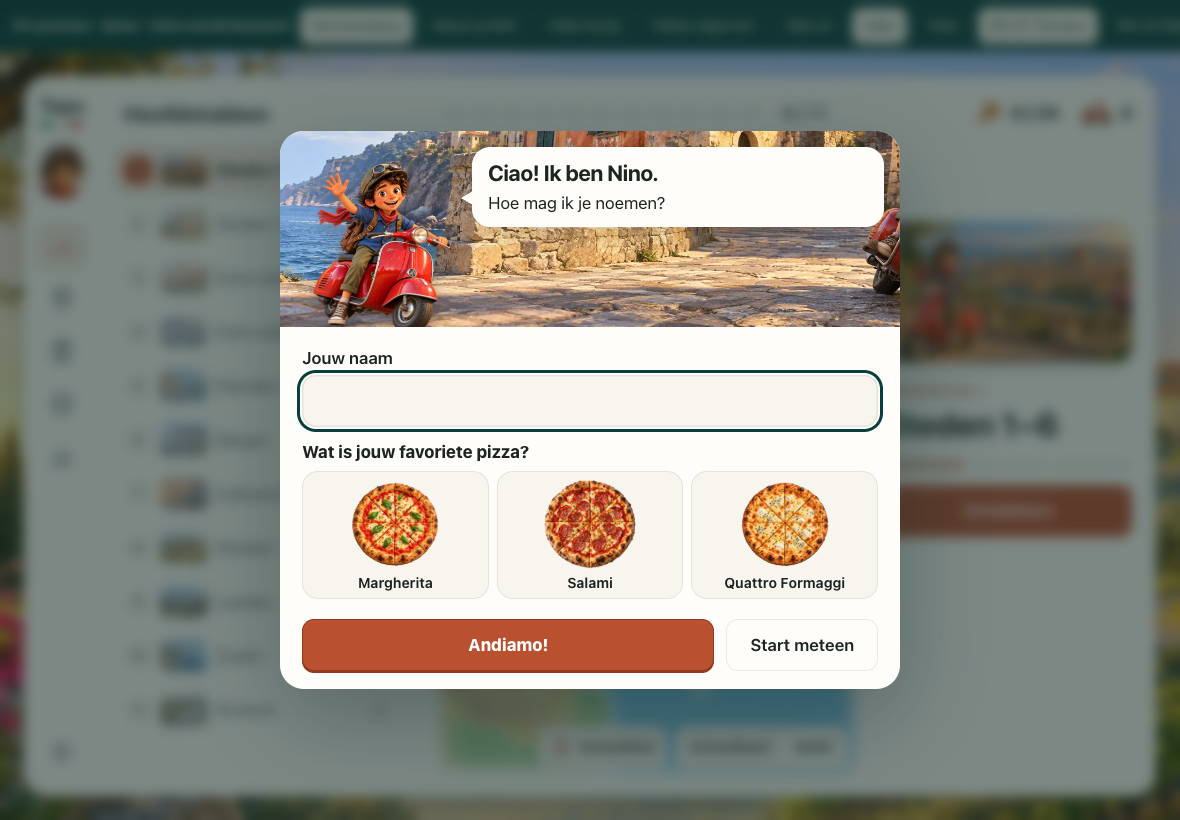
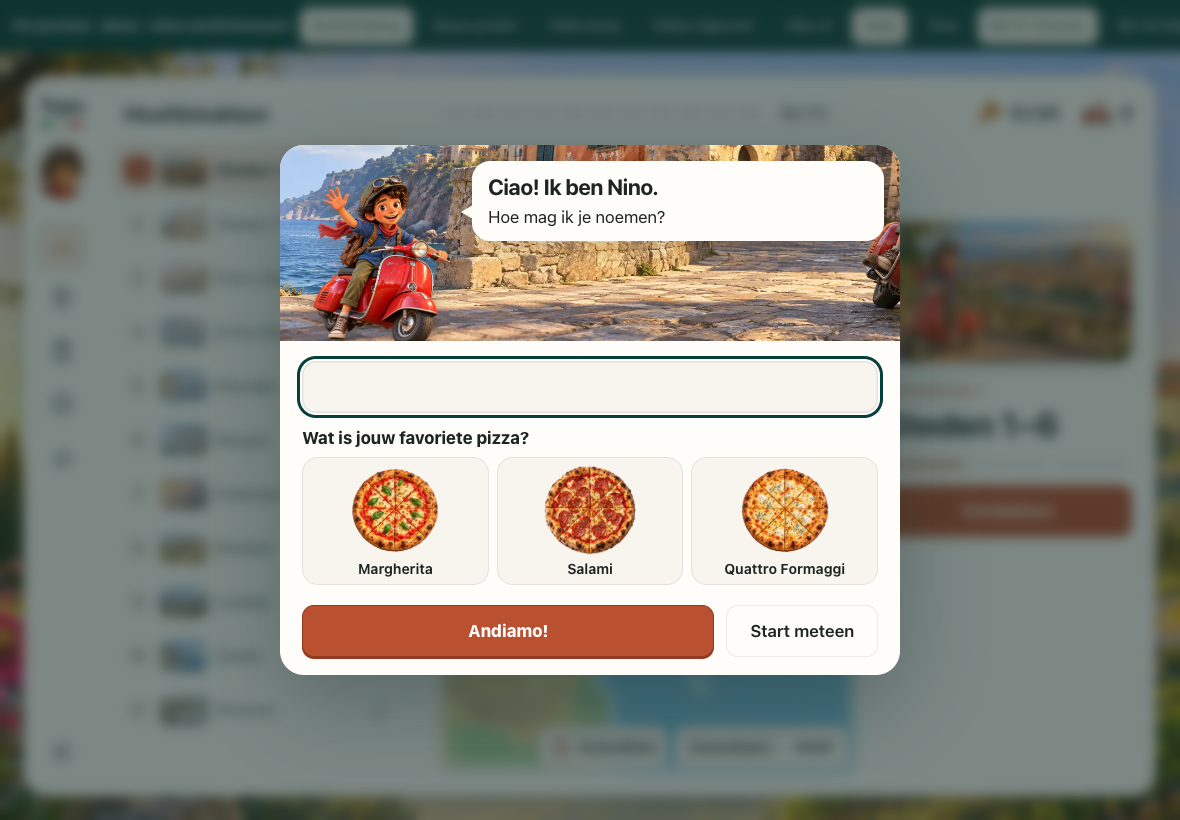
V3.0 review-fix 3: label 'Jouw naam' visueel weg, toegankelijke naam blijft
De labeltekst staat visueel verborgen in het V2-label; Nino's vraag draagt
het veld. QA: label niet zichtbaar, tekstvak vindbaar als 'Jouw naam'.
Fix 4 (zoombalk les) vervalt per eigenaarsbesluit 10 november.

Changed region(s): [[0.2136, 0.1524, 0.7627, 0.4573], [0.2136, 0.4878, 0.7627, 0.8537], [0.6407, 0.7622, 0.7322, 0.7927]]

diff --git a/scripts/v3/kennismaking.js b/scripts/v3/kennismaking.js
@@ -13,6 +13,9 @@
   // Help lines of the V2 form (V3 principle: no help texts).
   for(const n of d.querySelectorAll('.profileName>span,#profileNameHelp'))n.hidden=true;
   const input=d.querySelector('[name=name]');input?.removeAttribute('aria-describedby');
+  // The label "Jouw naam" is not shown (Nino's question carries it) but stays the field's accessible name.
+  const label=d.querySelector('label.profileName');
+  if(label)for(const n of [...label.childNodes])if(n.nodeType===3&&n.textContent.trim()){const sr=document.createElement('span');sr.className='v3SrOnly';sr.textContent=n.textContent.trim();n.replaceWith(sr);}
  }
  function offer(d){if(d.dataset.v3)return;d.dataset.v3='aanbod';d.classList.add('v3','v3Aanbod');for(const p of d.querySelectorAll(':scope>p'))p.hidden=true;d.querySelectorAll('.introActions .button').forEach(b=>b.classList.add('v3Btn'));d.querySelector('.introActions .primary')?.classList.add('primary');}
  // After the kennismaking, on Reis: chapter 1 is the selected chapter (a lesson that the offer started stays).

diff --git a/scripts/v3/shell.css b/scripts/v3/shell.css
@@ -191,6 +191,7 @@ dialog.v3Welkom::backdrop{background:rgba(18,40,38,.55);backdrop-filter:blur(6px
 .v3Welkom .profileBubble h2{font:var(--v3-title);margin:0 0 4px}
 .v3Welkom .profileBubble p{margin:0}
 .v3Welkom .profileName{font:var(--v3-headline);margin-top:var(--v3-s5)}
+.v3Welkom .v3SrOnly{position:absolute;width:1px;height:1px;overflow:hidden;clip:rect(0 0 0 0);clip-path:inset(50%);white-space:nowrap}
 .v3Welkom .profileName input{min-height:52px;border:0;border-radius:14px;background:var(--v3-surface2);box-shadow:inset 0 0 0 1.5px var(--v3-line);font:var(--v3-body)}
 .v3Welkom legend{font:var(--v3-headline)}
 .v3Welkom .profileChoice{border-radius:16px;background:var(--v3-surface2);box-shadow:inset 0 0 0 1px var(--v3-line)}

diff --git a/scripts/qa-v3-kennismaking.py b/scripts/qa-v3-kennismaking.py
@@ -3,7 +3,7 @@
 
 Per viewport (desktop, iPad landscape, iPad portrait, phone, 320 px), on #welkom (first visit: no profile, no intro):
   * the V2 first-run dialog opens as the V3 scene: welcome pose, name, three pizzas, Andiamo! and Start meteen;
-    no help lines; focus inside; the scene fits the screen without horizontal scroll;
+    no help lines; the label "Jouw naam" is not visible but is the field's accessible name; focus inside; the scene fits the screen without horizontal scroll;
   * Andiamo! (keyboard: type, choose with arrow keys, Enter): profile schema 1 exactly {schema,name,coverColor,
     favoritePizza} under topo-nino-profile-v1, intro "done"; then Reis with chapter 1 selected;
   * Start meteen: profile schema 1 (empty name, no pizza), intro "skipped"; Reis with chapter 1; the first lesson
@@ -28,6 +28,8 @@ DIALOG_JS = '''() => { const d = document.querySelector('dialog.ninoProfile[open
     name: vis(d.querySelector('[name=name]')), pizzas: [...d.querySelectorAll('[name=favoritePizza]')].map(i => i.value),
     buttons: [...d.querySelectorAll('button')].filter(vis).map(b => b.textContent.trim()),
     help: ['(mag leeg blijven)', 'Maximaal 24 tekens.'].filter(t => [...d.querySelectorAll('*')].some(n => vis(n) && n.children.length === 0 && n.textContent.trim() === t)),
+    nameLabelVisible: [...d.querySelectorAll('label.profileName *, label.profileName')].some(n => vis(n) && [...n.childNodes].some(c => c.nodeType === 3 && c.textContent.trim() === 'Jouw naam')),
+    nameAccessible: (() => { const i = d.querySelector('[name=name]'); return i?.labels?.[0] ? [...i.labels[0].childNodes].filter(c => c.nodeType === 3 || (c.nodeType === 1 && !c.hidden && c.tagName !== 'INPUT')).map(c => c.textContent).join('').trim() : null; })(),
     focusInside: d.contains(document.activeElement), fits: r.left >= 0 && r.right <= innerWidth && r.top >= 0 && r.bottom <= innerHeight + 1,
     hOverflow: document.documentElement.scrollWidth > innerWidth + 1}; }'''
 AFTER_JS = '''() => { const s = window.TOPO_V3_PREVIEW.storage;
@@ -55,6 +57,10 @@ async def main():
                 if not d['open'] or not d['v3'] or not d['firstRun'] or not d['pose'] or not d['name']: fail(f'dialog {d}')
                 elif d['pizzas'] != ['margherita', 'salami', 'quattro_formaggi'] or d['buttons'] != ['Start meteen', 'Andiamo!'] and sorted(d['buttons']) != ['Andiamo!', 'Start meteen']: fail(f'content {d["pizzas"]} {d["buttons"]}')
                 if d.get('help'): fail(f'help texts {d["help"]}')
+                if d.get('open') and (d['nameLabelVisible'] or d['nameAccessible'] != 'Jouw naam'): fail(f'name label visible={d["nameLabelVisible"]} accessible={d["nameAccessible"]!r}')
+                if flow == 'andiamo':
+                    tb = await pg.get_by_role('textbox', name='Jouw naam', exact=True).count(); run['nameRole'] = tb
+                    if tb != 1: fail(f'textbox "Jouw naam" by accessible name: {tb}')
                 if d.get('open') and (not d['focusInside'] or not d['fits'] or d['hOverflow']): fail(f'focus={d["focusInside"]} fits={d["fits"]} overflow={d["hOverflow"]}')
                 if flow == 'andiamo':
                     await pg.screenshot(path=str(OUT / f'kennismaking-{name}.png'))

diff --git a/docs/PROJECT_STATE.md b/docs/PROJECT_STATE.md
@@ -4,7 +4,7 @@ Branch `codex/topo-v3` vanaf de V2-afsluiting `f53dc0b` (voorouder `v2.0.2` = `8
 
 **V3.0 deel 5 — Kennismaking** (9 november): de V2-eerste-keerdialoog is één V3-scène met welkomstpose, naam, favoriete pizza, Andiamo! en Start meteen; de hulpteksten zijn weg. Daarna opent Reis met hoofdstuk 1. Profielschema 1 en de V2-regel voor het eenmalig opnieuw aanbieden blijven gelijk. Preview-demo `#welkom`. [Bewijs](qa/v3-kennismaking/README.md).
 
-**V3.0 review-fixes** (10 november, één commit per punt): (1) toetsfouten zonder "jij:", bij Aanwijzen alleen de plek. [Bewijs](qa/v3-toets/README.md). (2) Telefoon en 320 px: elk scherm buiten lessen krijgt onderaan ruimte voor de tabbalk en de safe area, ook bij toetsenbordfocus. [Bewijs](qa/v3-shell/README.md).
+**V3.0 review-fixes** (10 november, één commit per punt): (1) toetsfouten zonder "jij:", bij Aanwijzen alleen de plek. [Bewijs](qa/v3-toets/README.md). (2) Telefoon en 320 px: elk scherm buiten lessen krijgt onderaan ruimte voor de tabbalk en de safe area, ook bij toetsenbordfocus. [Bewijs](qa/v3-shell/README.md). (3) Kennismaking: label "Jouw naam" visueel weg, toegankelijke naam blijft. [Bewijs](qa/v3-kennismaking/README.md). Fix 4 (zoombalk in de les) vervalt volgens het eigenaarsbesluit van 10 november (herontwerp van de les).
 
 **V3.0 compleet op `codex/topo-v3`** (5 commits, één per onderdeel). Klaar voor de Hermes-hertest op #76. Geen merge of deployment.
 

diff --git a/docs/DECISIONS.md b/docs/DECISIONS.md
@@ -457,3 +457,7 @@ Review-fix 2. Op de telefoon (≤ 767 px) eindigt elk V3-scherm buiten lessen bo
 - **Toetsenbord:** `scroll-padding-bottom` gebruikt dezelfde waarde. Een knop die focus krijgt en achter de balk valt, scrolt vrij.
 - **Lessen:** die houden de bestaande V2-padding. De lopende toets is een les.
 - **Drempel in de QA:** het einde van de inhoud ligt minstens 8 px boven de balk.
+
+## 2026-11-10 — V3.0 review-fix: label "Jouw naam" alleen voor schermlezers
+
+Review-fix 3 (ook in `DESIGN_AUDIT_V3_0.md`: "het dubbele label weg"). In de kennismaking is "Jouw naam" niet meer zichtbaar, omdat Nino's vraag "Hoe mag ik je noemen?" het veld al draagt. Het label blijft de toegankelijke naam van het veld: de tekst staat visueel verborgen in het V2-label. Het V2-formulier en profielschema 1 blijven ongewijzigd.

diff --git a/docs/qa/v3-kennismaking/README.md b/docs/qa/v3-kennismaking/README.md
@@ -20,3 +20,5 @@ Gecontroleerd op vijf formaten × drie flows, met de demo `#welkom` (eerste bezo
 Screenshots: `kennismaking-<formaat>.png`, `kennismaking-ingevuld-desktop.png`, `reis-na-kennismaking-<formaat>.png` en `aanbod-desktop.png` / `aanbod-telefoon.png`.
 
 **Niet in de preview te testen:** Begin helemaal opnieuw herlaadt de pagina, en de preview zet bij herladen de demo terug. Het V2-pad is ongewijzigd: het wist profiel, voortgang en de introductiesleutel, waarna V2 bij het opstarten de kennismaking opent. Dat is gedekt door de V2-tests in `npm test`.
+
+**Label "Jouw naam" (review-fix 10 november).** Het label is op alle vijf formaten niet zichtbaar. Het veld is wel te vinden als tekstvak met de toegankelijke naam "Jouw naam" (`get_by_role('textbox', name='Jouw naam')`).
